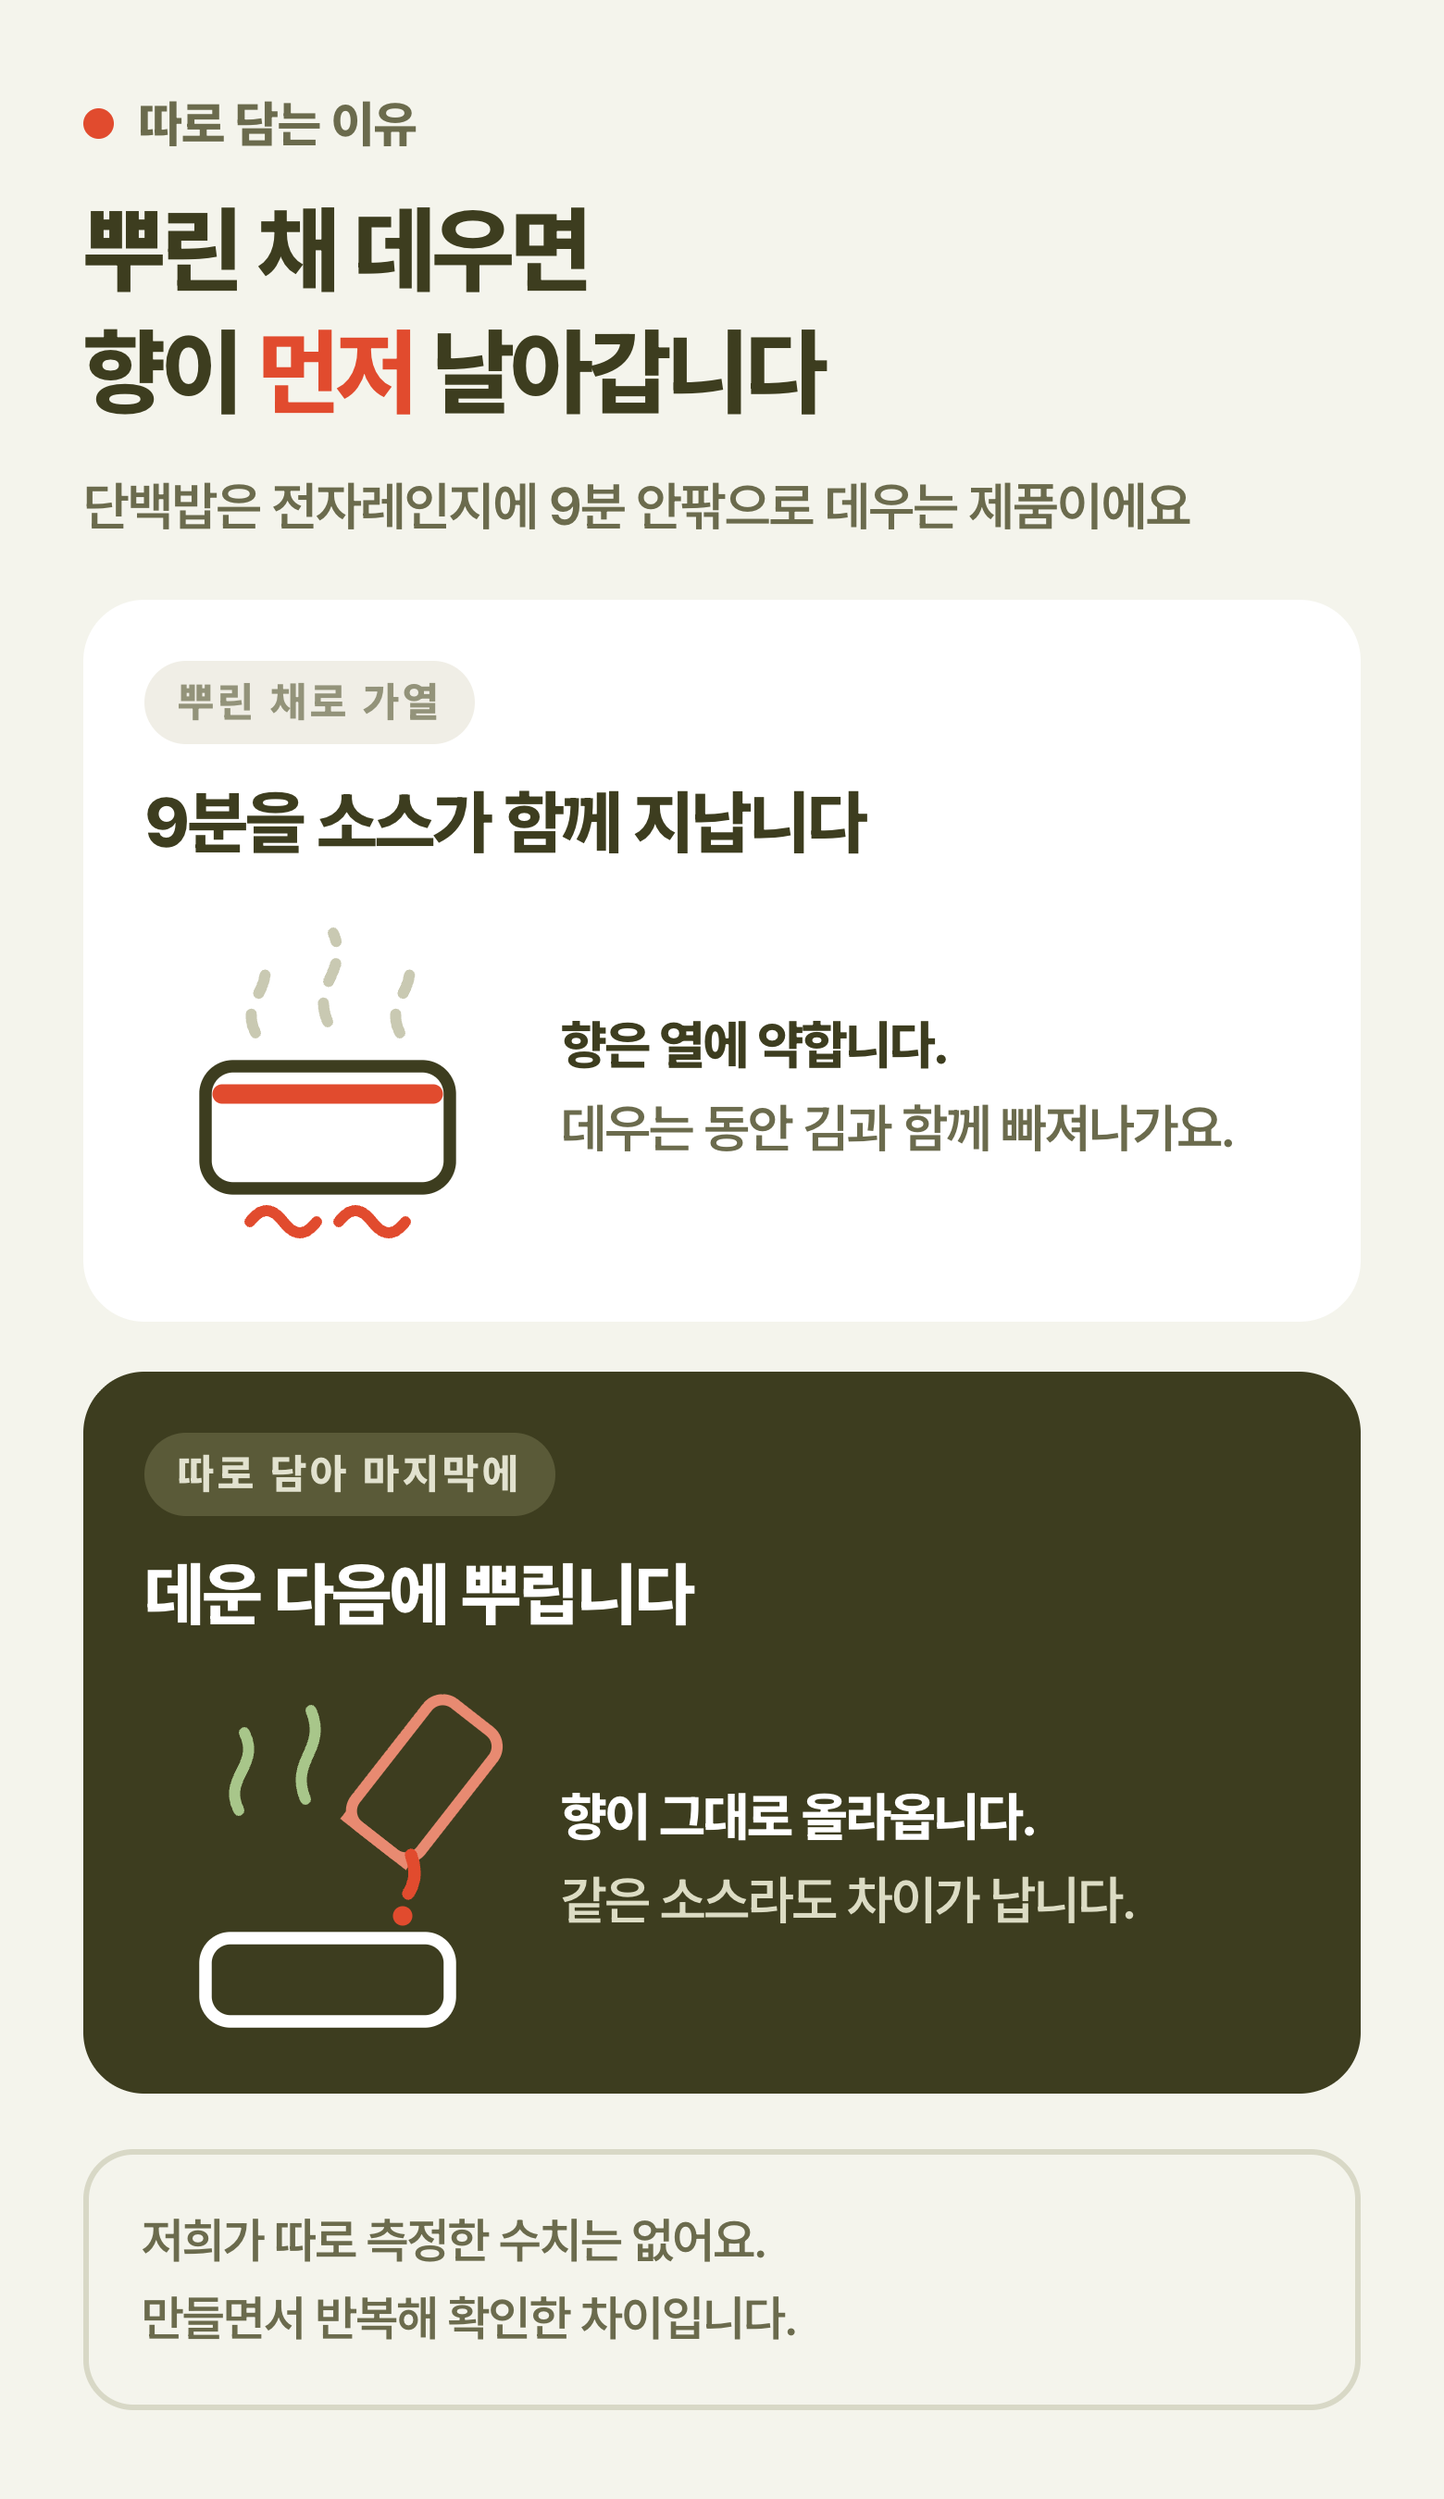
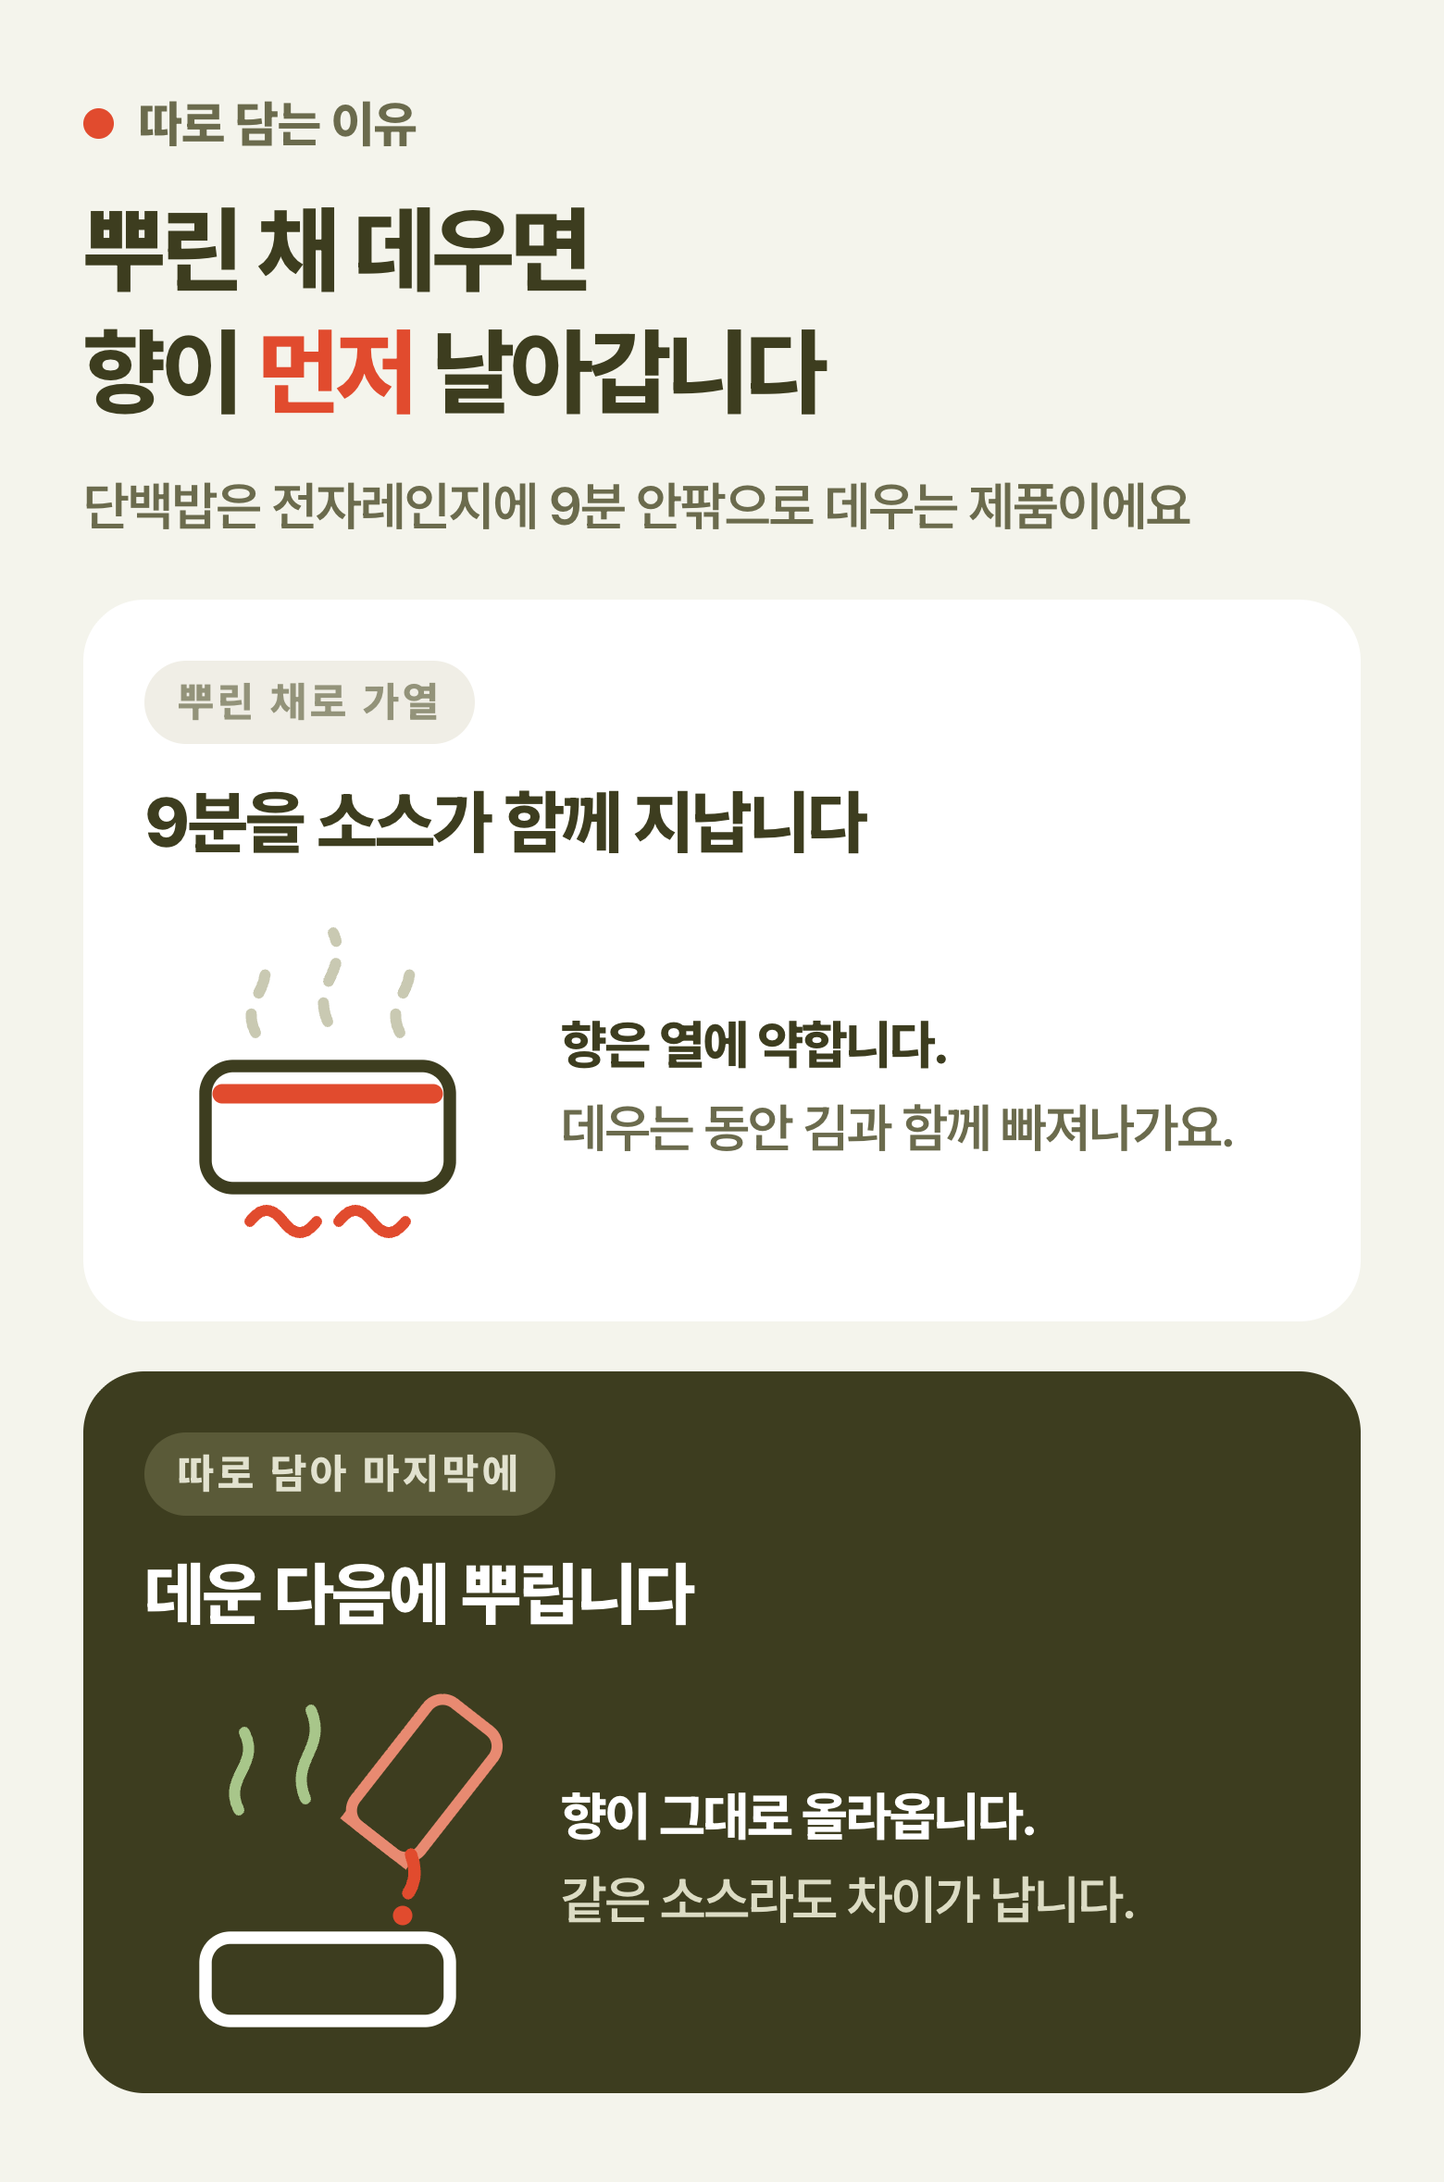
assets: __YD_FOOTER_V3_54__

Changed region(s): [[0.0308, 0.031, 0.9538, 0.9597]]

diff --git a/yd-footer.js b/yd-footer.js
@@ -2,10 +2,10 @@
 (function() {
   'use strict';
 
-  if (window.__YD_FOOTER_V3_53__) {
+  if (window.__YD_FOOTER_V3_54__) {
     return;
   }
-  window.__YD_FOOTER_V3_53__ = true;
+  window.__YD_FOOTER_V3_54__ = true;
 
   const CONFIG = {
     BEST_URL: 'https://www.yundiet.com/best',
@@ -31,7 +31,7 @@
   })();
 
   /* ── 자체 검증 (콘솔에서 YD_CHECK() 실행) ── */
-  const ydStatus = { version: '3.53', page: location.pathname, features: {} };
+  const ydStatus = { version: '3.54', page: location.pathname, features: {} };
   function ydMark(key, ok, note) {
     ydStatus.features[key] = { ok: !!ok, note: note || '' };
   }
@@ -1713,7 +1713,7 @@
       var btn = function(v, strong, span) {
         return '<button class="yd-bs-category ' + (activeTab === v ? 'is-selected' : '') + '" data-category="' + v + '" aria-pressed="' + (activeTab === v) + '"><strong' + (strong.length > 3 ? ' class="is-wide"' : '') + '>' + strong + '</strong><span>' + span + '</span><b>' + totals[v] + '종 · 선택 ' + counts[v] + '개</b></button>';
       };
-      return '<div class="yd-bs-category-grid" role="group" aria-label="라인 선택">' + btn('S', 'S', '단백밥 도시락') + btn('L', 'L', '단백밥 도시락') + btn('P', 'PREMIUM', '프리미엄 도시락') + '</div>';
+      return '<div class="yd-bs-category-grid" role="group" aria-label="라인 선택">' + btn('S', 'S', '닭가슴살 도시락') + btn('L', 'L', '닭가슴살 도시락') + btn('P', 'PREMIUM', '프리미엄 도시락') + '</div>';
     }
     /* 네이티브 그룹 라벨 → 고객용 표기 (소유자 지시 2026-07-21) */
     function displayGroupLabel(label) {
@@ -3467,7 +3467,7 @@
     window.setTimeout(function() {
       Object.keys(ydStatus.features).forEach(function(key) {
         if (!ydStatus.features[key].ok) {
-          console.warn('[YD v3.53] 미적용 감지: ' + key + ' — ' + ydStatus.features[key].note + ' (YD_CHECK()로 상세 확인)');
+          console.warn('[YD v3.54] 미적용 감지: ' + key + ' — ' + ydStatus.features[key].note + ' (YD_CHECK()로 상세 확인)');
         }
       });
     }, 6000);
